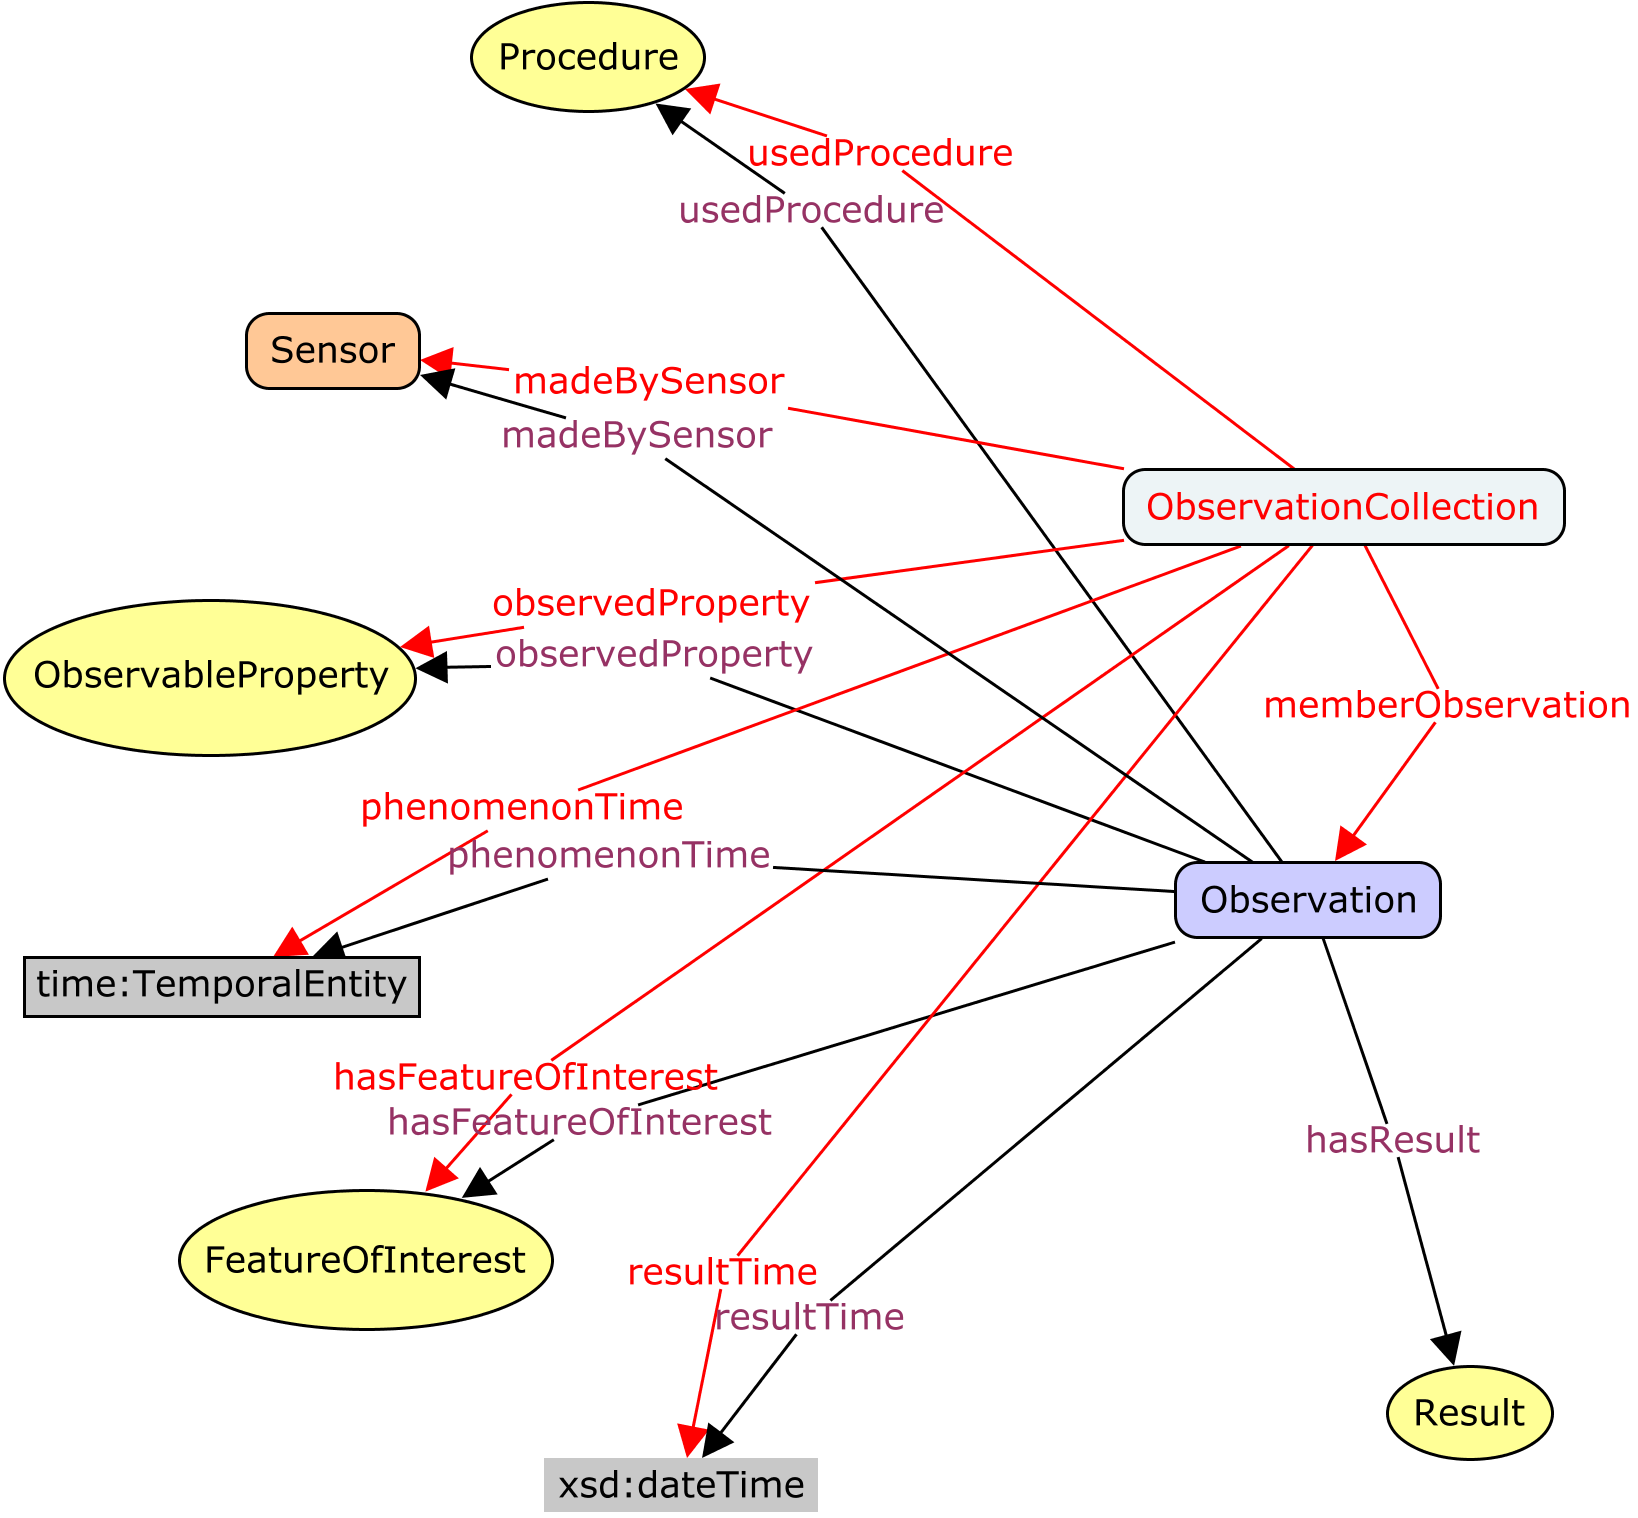
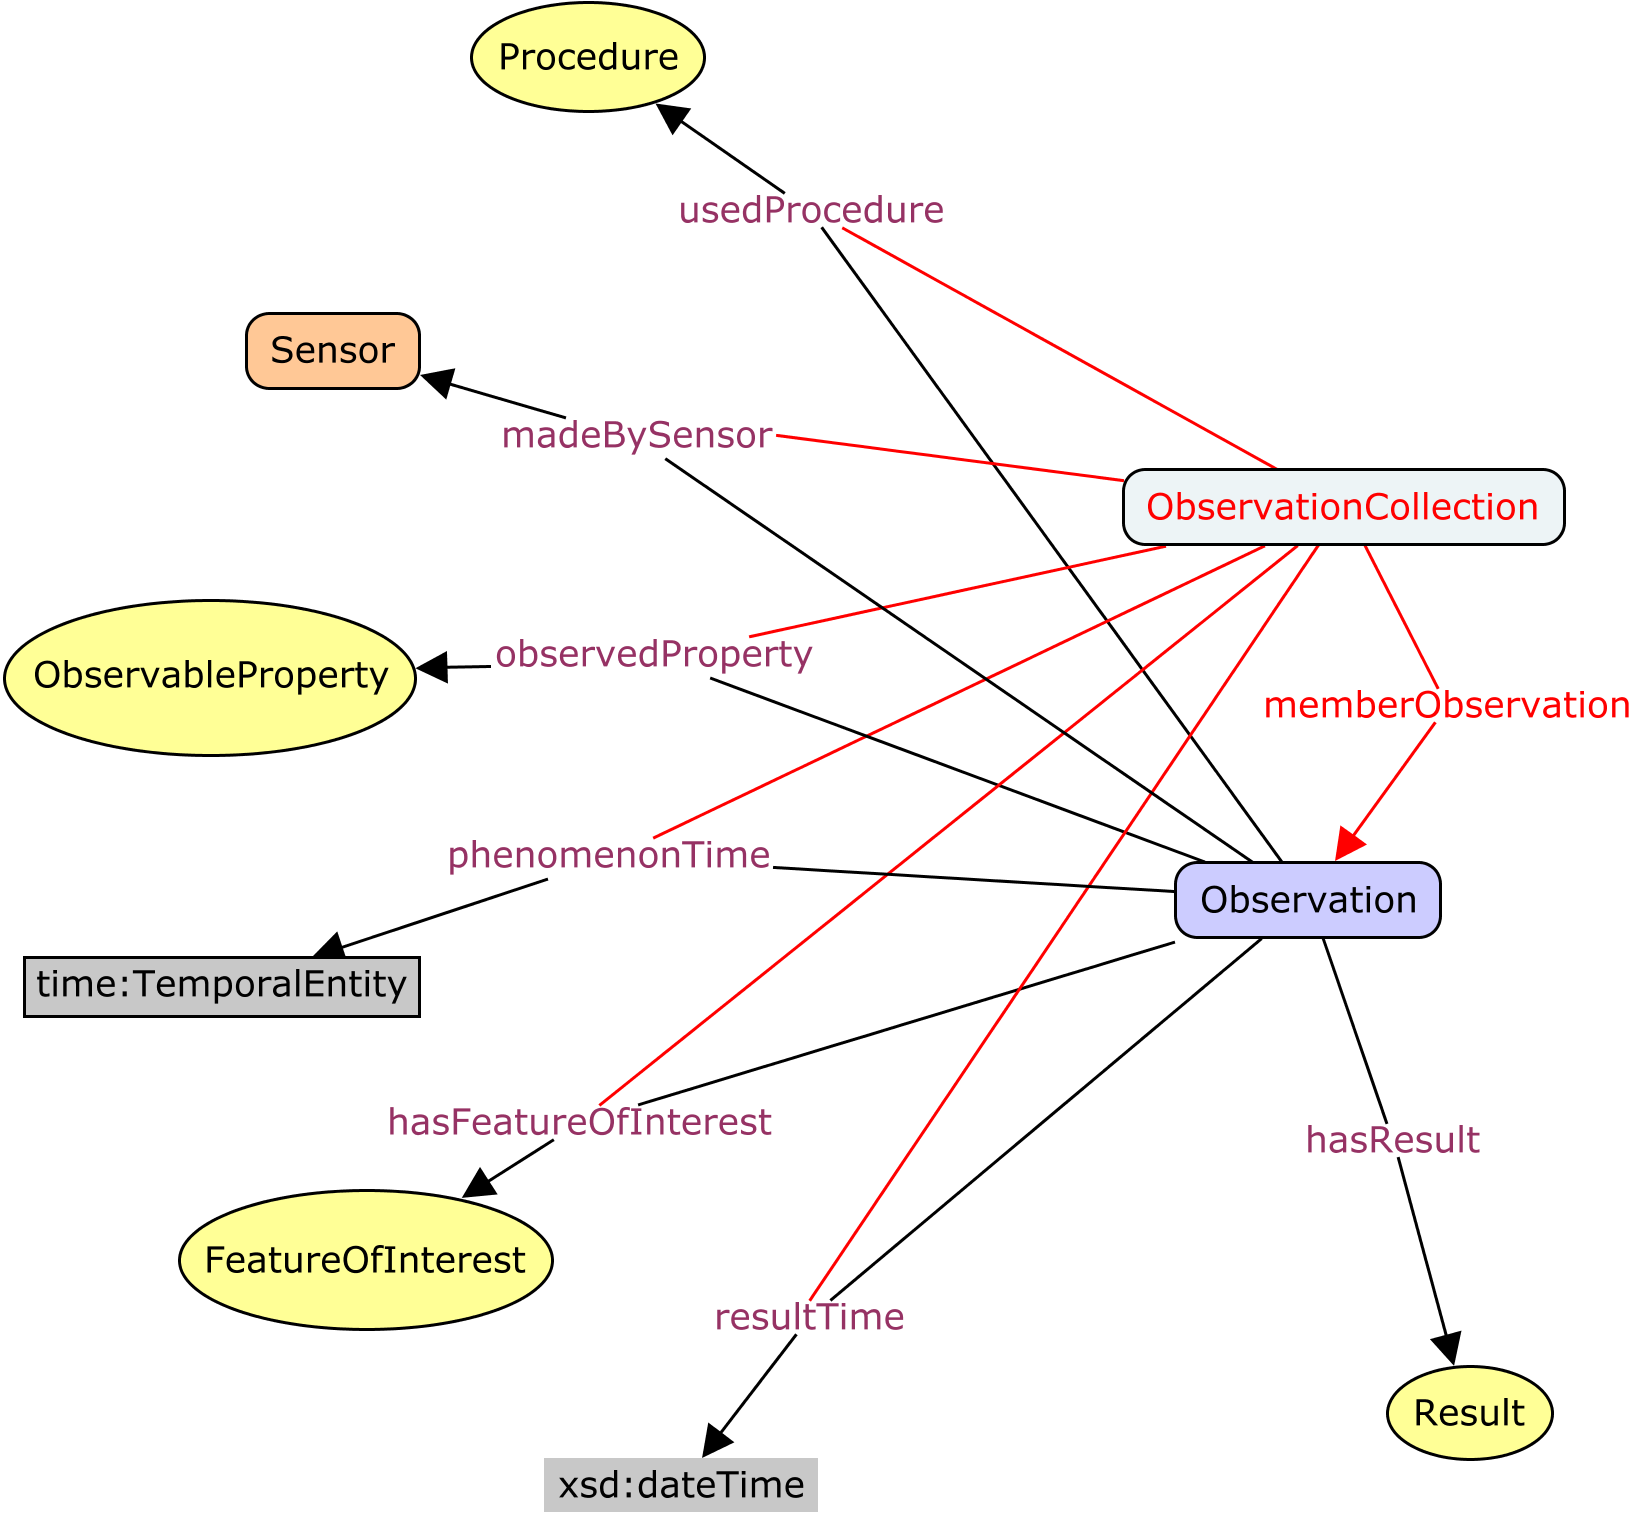
improved (simplified) obscollection figure

diff --git a/ssn-extensions/index.html b/ssn-extensions/index.html
@@ -208,7 +208,7 @@ This requirement can be satisfied by a new <a href="https://www.w3.org/TR/owl2-p
 </figure>
 
 <p>
-  Note that this requirement was addressed in OM-Lite [[om-lite]] a different way, using a different property <code>oml:samplingStrategy</code> to indicate the sample, with <code>oml:featureOfInterest</code> always linking to the <i>ultimate</i> feature-of-interest.
+  Note that this requirement was addressed in OM-Lite [[OM-Lite]] a different way, using a different property <code>oml:samplingStrategy</code> to indicate the sample, with <code>oml:featureOfInterest</code> always linking to the <i>ultimate</i> feature-of-interest.
 </p>
 
 </section>
@@ -234,7 +234,7 @@ This requirement can be satisfied by a new <a href="https://www.w3.org/TR/owl2-p
 </figure>
 
 <p>
-  Note that this requirement was addressed in OM-Lite [[om-lite]] follwoing the pattern proposed here.
+  Note that this requirement was addressed in OM-Lite [[OM-Lite]] follwoing the pattern proposed here.
 </p>
 
 
